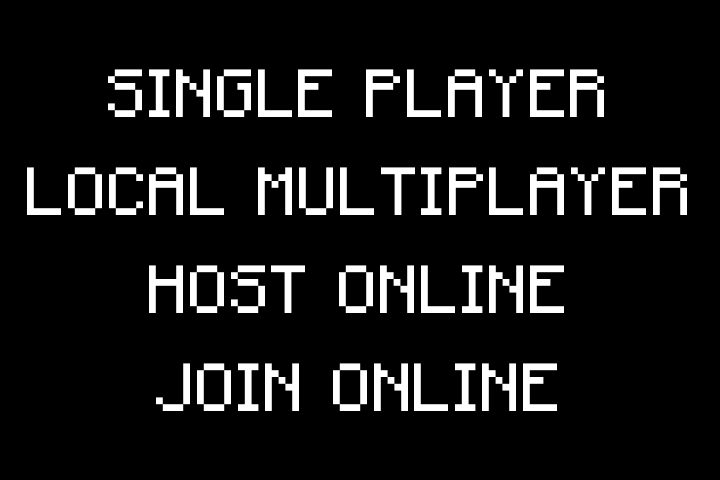
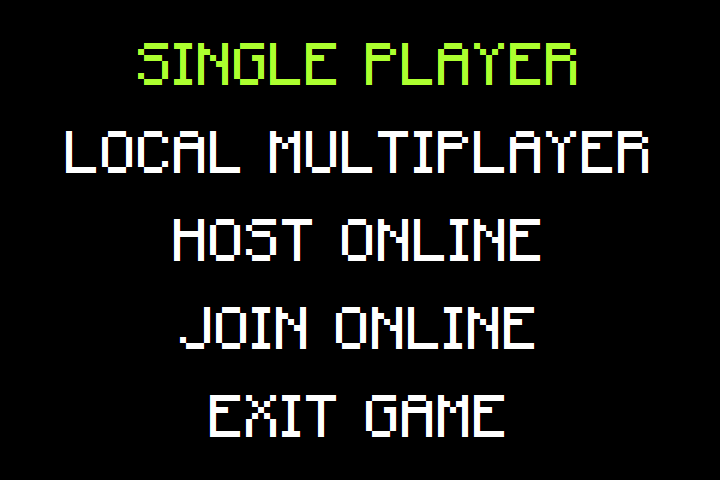
Add ui tools

Changed region(s): [[0.0306, 0.0625, 0.9778, 0.9375]]

diff --git a/src/main/java/org/kiyotoko/pong/menu/Join.java b/src/main/java/org/kiyotoko/pong/menu/Join.java
@@ -1,0 +1,64 @@
+package org.kiyotoko.pong.menu;
+
+import javafx.geometry.Pos;
+import javafx.scene.Group;
+import javafx.scene.Scene;
+import javafx.scene.control.ContextMenu;
+import javafx.scene.control.Label;
+import javafx.scene.control.TextField;
+import javafx.scene.layout.Background;
+import javafx.scene.layout.BackgroundFill;
+import javafx.scene.layout.BorderPane;
+import javafx.scene.layout.VBox;
+import javafx.scene.paint.Color;
+import javafx.scene.text.Font;
+import javafx.stage.Stage;
+import org.kiyotoko.pong.Launcher;
+import org.kiyotoko.pong.net.RemoteGame;
+
+public class Join extends Scene {
+
+    private final Label message = UITools.createText("Connect Online");
+
+    public Join(Group content) {
+        super(content, 720, 480);
+        Font font = Font.loadFont(Launcher.class.getResourceAsStream("PixelFont.otf"), 50);
+
+        TextField address = new TextField();
+        address.setBackground(new Background(new BackgroundFill(Color.BLACK, null, null)));
+        address.setPromptText("Enter Address");
+        address.setContextMenu(new ContextMenu());
+        address.setAlignment(Pos.CENTER);
+        address.setFont(font);
+        address.setStyle("-fx-text-fill: white;");
+        address.applyCss();
+        
+        var connect = UITools.createButton("Connect", () -> {
+            if (address.getText().isBlank()) error("Address can not be null");
+            else try {
+                ((Stage) getWindow()).setScene(new RemoteGame(address.getText()));
+            } catch (Throwable throwable) {
+                Throwable cause = throwable;
+                while (cause.getCause() != null) {
+                    cause = cause.getCause();
+                }
+                error(cause.getMessage());
+            }
+        });
+        var cancel = UITools.createButton("Cancel", () -> ((Stage) getWindow()).setScene(new Menu(new Group())));
+
+        VBox box = new VBox(10);
+        box.getChildren().addAll(new BorderPane(message), new BorderPane(address), new BorderPane(connect),  new BorderPane(cancel));
+        box.setPrefSize(getWidth(), getHeight());
+        box.setAlignment(Pos.CENTER);
+
+        content.getChildren().add(box);
+        connect.requestFocus();
+        setFill(Color.BLACK);
+    }
+
+    public void error(String msg) {
+        message.setText(msg);
+        message.setTextFill(Color.CRIMSON);
+    }
+}

diff --git a/src/main/java/org/kiyotoko/pong/menu/Menu.java b/src/main/java/org/kiyotoko/pong/menu/Menu.java
@@ -9,19 +9,19 @@ import javafx.scene.paint.Color;
 import javafx.stage.Stage;
 import org.kiyotoko.pong.net.LocalGame;
 import org.kiyotoko.pong.net.PlayerType;
-import org.kiyotoko.pong.net.RemoteGame;
 
 public class Menu extends Scene {
     public Menu(Group content) {
         super(content, 720, 480);
 
-        Button single = new Button("Single Player", e -> ((Stage) getWindow()).setScene(new LocalGame(PlayerType.LOCAL, PlayerType.COMPUTER)));
-        Button duo = new Button("Local Multiplayer", e -> ((Stage) getWindow()).setScene(new LocalGame(PlayerType.LOCAL, PlayerType.LOCAL)));
-        Button host = new Button("Host Online", e -> ((Stage) getWindow()).setScene(new LocalGame(PlayerType.LOCAL, PlayerType.NETWORK)));
-        Button join = new Button("Join Online", e -> ((Stage) getWindow()).setScene(new RemoteGame()));
+        var single = UITools.createButton("Single Player", () -> ((Stage) getWindow()).setScene(new LocalGame(PlayerType.LOCAL, PlayerType.COMPUTER)));
+        var duo = UITools.createButton("Local Multiplayer", () -> ((Stage) getWindow()).setScene(new LocalGame(PlayerType.LOCAL, PlayerType.LOCAL)));
+        var host = UITools.createButton("Host Online", () -> ((Stage) getWindow()).setScene(new LocalGame(PlayerType.LOCAL, PlayerType.NETWORK)));
+        var join = UITools.createButton("Join Online", () -> ((Stage) getWindow()).setScene(new Join(new Group())));
+        var exit = UITools.createButton("Exit Game", () -> ((Stage) getWindow()).close());
 
         VBox box = new VBox(10);
-        box.getChildren().addAll(new BorderPane(single), new BorderPane(duo), new BorderPane(host), new BorderPane(join));
+        box.getChildren().addAll(new BorderPane(single), new BorderPane(duo), new BorderPane(host), new BorderPane(join), new BorderPane(exit));
         box.setPrefSize(getWidth(), getHeight());
         box.setAlignment(Pos.CENTER);
 

diff --git a/src/main/java/org/kiyotoko/pong/menu/UITools.java b/src/main/java/org/kiyotoko/pong/menu/UITools.java
@@ -1,0 +1,46 @@
+package org.kiyotoko.pong.menu;
+
+import org.kiyotoko.pong.App;
+import org.kiyotoko.pong.Launcher;
+
+import javafx.scene.control.Label;
+import javafx.scene.input.KeyCode;
+import javafx.scene.paint.Color;
+import javafx.scene.text.Font;
+
+public final class UITools {
+    private UITools() {
+        throw new UnsupportedOperationException();
+    }
+
+    public static final Color TEXT_COLOR = Color.WHITE;
+    public static final Color FOCUS_COLOR = Color.GREENYELLOW;
+
+    public static final Font TEXT_FONT = Font.loadFont(Launcher.class.getResourceAsStream("PixelFont.otf"), 60);
+
+    public static final Label createText(String msg) {
+        Label text = new Label(msg.toUpperCase());
+        text.setTextFill(TEXT_COLOR);
+        text.setFont(TEXT_FONT);
+        text.setFocusTraversable(false);
+        return text;
+    }
+
+    public static final Label createButton(String msg, Runnable onAction) {
+        Label button = new Label(msg.toUpperCase());
+        button.setTextFill(TEXT_COLOR);
+        button.setFont(Font.loadFont(App.class.getResourceAsStream("PixelFont.otf"), 60));
+        button.setFocusTraversable(true);
+        button.focusedProperty().addListener((overversable, oldValue, newValue) -> {
+            button.setTextFill(newValue ? FOCUS_COLOR : TEXT_COLOR);
+        });
+        button.setOnMousePressed(event -> onAction.run());
+        button.setOnMouseEntered(event -> button.requestFocus());
+        button.setOnKeyPressed(event -> {
+            if (event.getCode() == KeyCode.ENTER) {
+                onAction.run();
+            }
+        });
+        return button;
+    }
+}

diff --git a/src/main/java/org/kiyotoko/pong/game/Game.java b/src/main/java/org/kiyotoko/pong/game/Game.java
@@ -13,7 +13,7 @@ import javafx.scene.shape.Rectangle;
 import javafx.stage.Stage;
 import javafx.util.Duration;
 import org.kiyotoko.pong.menu.Menu;
-import org.kiyotoko.pong.menu.Button;
+import org.kiyotoko.pong.menu.UITools;
 
 import java.util.ArrayList;
 import java.util.HashMap;
@@ -58,8 +58,8 @@ public class Game extends Scene {
     public void end(int winner) {
         timeline.stop();
 
-        Button info = new Button("Player " + winner + " wins", e -> {});
-        Button exit = new Button("Exit", e -> exit());
+        var info = UITools.createText("Player " + winner + " wins");
+        var exit = UITools.createButton("Exit", () -> exit());
 
         VBox box = new VBox(20);
         box.getChildren().addAll(new BorderPane(info), new BorderPane(exit));

diff --git a/src/main/java/org/kiyotoko/pong/net/RemoteGame.java b/src/main/java/org/kiyotoko/pong/net/RemoteGame.java
@@ -14,10 +14,10 @@ public class RemoteGame extends Game {
 
     private final PongGrpc.PongBlockingStub blockingStub;
 
-    public RemoteGame() {
+    public RemoteGame(String address) {
         super(new Group());
 
-        Channel channel = ManagedChannelBuilder.forAddress("localhost", 4242).usePlaintext().build();
+        Channel channel = ManagedChannelBuilder.forAddress(address, 4242).usePlaintext().build();
         blockingStub = PongGrpc.newBlockingStub(channel);
 
         for (int p = 1; p < 4; p++) {
